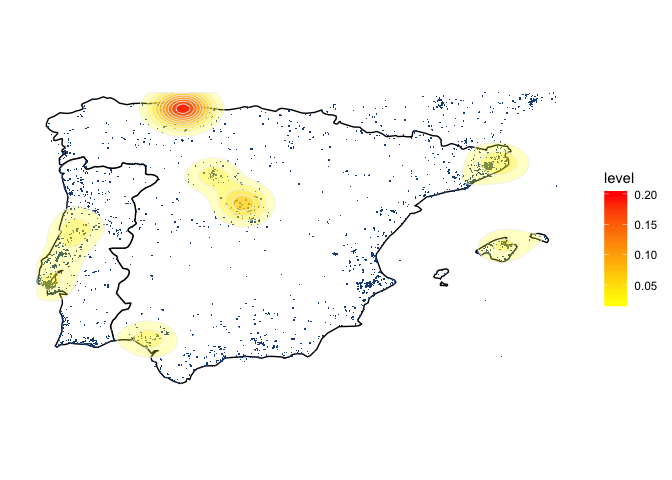
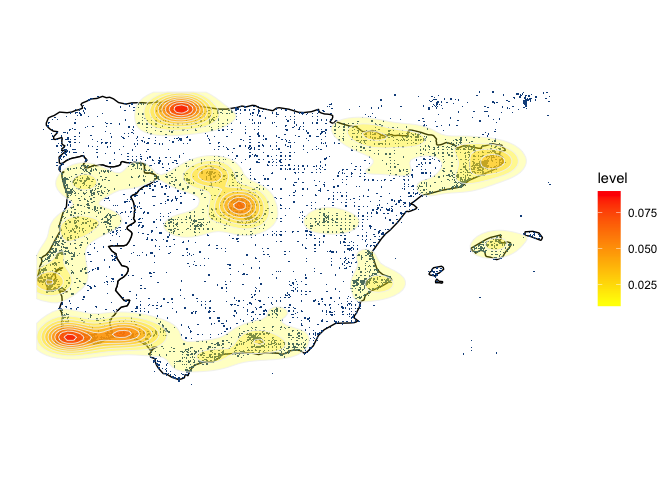
Update readme and summary with v.0.1

diff --git a/README.md b/README.md
@@ -3,37 +3,48 @@
 
 # IberianBees
 
-This is an in progress repo to document Iberian Bees. You can see a summary of the data [here][https://github.com/ibartomeus/IberianBees/blob/master/Summary.md]  
+This is an in progress repo to document Iberian Bees. You can see a summary of the data [here](https://github.com/ibartomeus/IberianBees/blob/master/Summary.md)    
+
+# How to use this repo  
+
+- If you want to use clean data go to: `data/data_clean.csv`. If you spot any error, please fill an [issue](https://github.com/ibartomeus/IberianBees/issues) and indicate the uid of the record to fix. If you plan to clean this data further (e.g. dates, localities), lat @ibartomeus know to avoid duplicating efforts.
+
+- If you want to fix non recognized species (*blink, blink* -> Thomas), the only data that can be manually altered is `data/manual_checks.csv`. We can move this file via email, and that way you don't need to get into git. If yo want to see details on removed specimens, check `data/removed.csv`. If you wish to correct any of those, fill an issue [issue](https://github.com/ibartomeus/IberianBees/issues) and indicate the uid of the record to fix. 
+
+- If you are curious on the process keep reading.
 
 # Process:
 
-0- Use Fetch_data.R to update data from interent (e.g. Gbif)
-1- Add excels in local to "/rawdata/xls_to_add/" with the data in the first sheet.  
-2- Run "rawdata/preprocessing.R"" to convert those to csv.  
-3- Add new csv's manually using "/rawdata/Add_data.R".  
-4- Use "datascript.R" to clean data.  
-5- Update Summary.Rmd to see nice sumaries.  
-6- Commit and push. Automatic tests will be done (in the future).   
+1-   Use "rawdata/Fetch_data.R" to update data from interent (e.g. Gbif, iNaturalist)   
+2-   Add new excels in local to "/rawdata/xls_to_add/" with the data in the first sheet.  
+3-   Run "rawdata/preprocessing.R" to convert those to csv and upload to github.  
+4-   Add new csv's programatically using "/rawdata/Add_data.R".  
+5-   Use "data/datascript.R" to generate "data/clean_data.csv".  
+5.5- Fix manual things using the workflow in "data/manual_checks.csv"  
+6-   Knit Summary.Rmd to see updated nice sumaries.  
+7-   Commit and push. Automatic tests will be done (in the future).   
 
 # To Do:
 
-  [x] Download data from Gbif
-  [x] preprocess data contributed by coauthors
-  [x] read from rawdata, clean and append files to data (But re-check) 
-  [o] Implement tests...  e.g. remove duplicates.
-  [o] create summary (to readme also?)  
-  [ ] Think what with manual data cleaning? e.g. Thomas checks Data?  Scripted?
+  [x] Download data from Gbif, iNat (as per May 2020).  
+  [x] pre-preprocess data contributed by coauthors (as per May 2020).  
+  [x] read from rawdata, clean and append files to data.   
+  [x] Implement tests... (datascript.R)   
+  [x] create summary.
+  [o] Think what to do with manual data cleaning? Aim to keep it reproducible in datascript.R   
+  [ ] Create metadata (in EML?)  
+  [ ] Add more data (see below)  
+  [ ] Write a paper explaining scope, methodology, potential uses.  
 
 # Datasets to add
 
-  [ ] species list  (Talk Thomas)
-  [x] Contributors via xls in "/rawdata" [missing: Curro, Cap de creus, ...]   
-  [ ] Thomas Wood et al.  [talk to Thomas First]  
-  [x] Gbif + iNaturalist in Fetch_data.R  
-  [ ] Historical papers  [talk Cristina and MA]
-  [ ] Museo ciencias Naturales  [Cristina]  
-  [ ]   
-
+  [x] Species master list (add subgenus?)  
+  [x] Contributors via .xls in "/rawdata" [missing: Curro, Cap de creus, ...]     
+  [x] Thomas Wood et al. data (Check data from Ian Cross)  
+  [x] Gbif + iNaturalist in Fetch_data.R    
+  [o] Historical papers  [MA] (more to come, including Asensio)  
+  [ ] Museo ciencias Naturales  [Cristina]   
+  [ ] Other datasets: Felix Torres, Leopoldo Castro, Obeso[x], Aguado, Piluca, ...    
 
 
 

diff --git a/Summary.md b/Summary.md
@@ -1,14 +1,12 @@
-Summary
+Summary of the Iberian Bees Database
 ================
-I. Bartomeus et al.
-13 April, 2020
+I. Bartomeus, T. Wood, L. Carvalheiro et al.
+15 May, 2020
 
-# Iberian Bee Database.
-
-The Iberian Bee Database contains 16889 entries of bee occurrences over
-the peninsula and nearby islands. We have at least one record of 679
-species out of the 1100? species known to occurr in the area. Here we
-present a summary of the data base:
+The Iberian Bee Database contains 65132 entries of bee occurrences over
+the peninsula and nearby islands. We have at least one record of 934
+species out of the 1041 species known to occurr in the area. Here we
+present a summary of the database:
 
 ## Where are the records?
 
@@ -18,9 +16,8 @@ marked in red.
 
 ## Which are the most reported species?
 
-Here we show the top-20 incidence (number of times apearing) per species
-excluding *Apis
-mellifera*
+Here we show the top-20 most abundant species excluding *Apis
+mellifera*.
 
 ![](Summary_files/figure-gfm/unnamed-chunk-3-1.png)<!-- -->
 
@@ -33,6 +30,6 @@ mellifera*
 This is a large collaborative effort lead by I. Bartomeus, L.
 Carvalheiro and T. Woods, but it would not be possible without the
 contribution of thousends of researchers. Those are the main
-contributors (this can be prettier and more data is in the pipeline)
+contributors (this can be prettier and more data is in the pipeline).
 
 ![](Summary_files/figure-gfm/unnamed-chunk-5-1.png)<!-- -->
